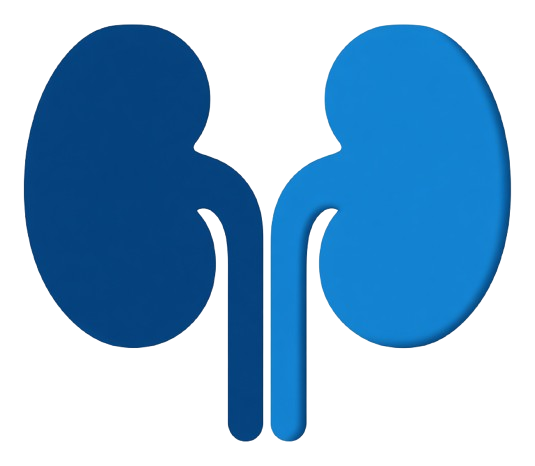
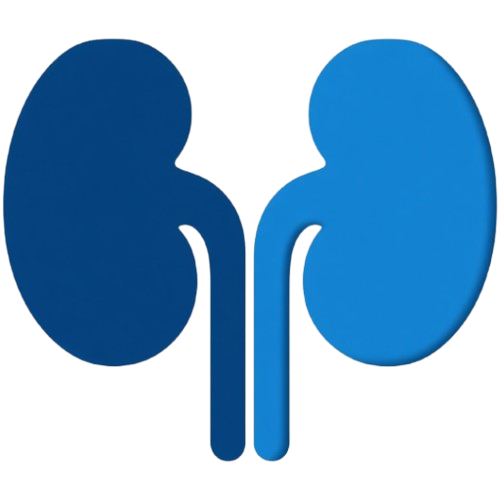
Cambie la url de la metada por la .com.ar, transforme el icono en un cuadrado y cambie la foto de opengraph por el link

diff --git a/src/app/layout.js b/src/app/layout.js
@@ -18,7 +18,7 @@ const lora = Lora({
 });
 
 export const metadata = {
-  metadataBase: new URL("https://drfrancofagetti.netlify.app/"),
+  metadataBase: new URL("https://drfrancofagetti.com.ar/"),
 
   title: "Dr. Franco Fagetti | Urólogo en Tucumán",
 
@@ -44,7 +44,7 @@ export const metadata = {
       "Consultas, diagnóstico y tratamiento urológico en San Miguel de Tucumán. Solicite su turno.",
     images: [
       {
-        url: "/Foto_Personal.jpeg",
+        url: "https://res.cloudinary.com/dsc3e6rd4/image/upload/v1792599016/Foto_Personal.webp",
         width: 1200,
         height: 630,
         alt: "Dr. Franco Fagetti - Urólogo en Tucumán",
